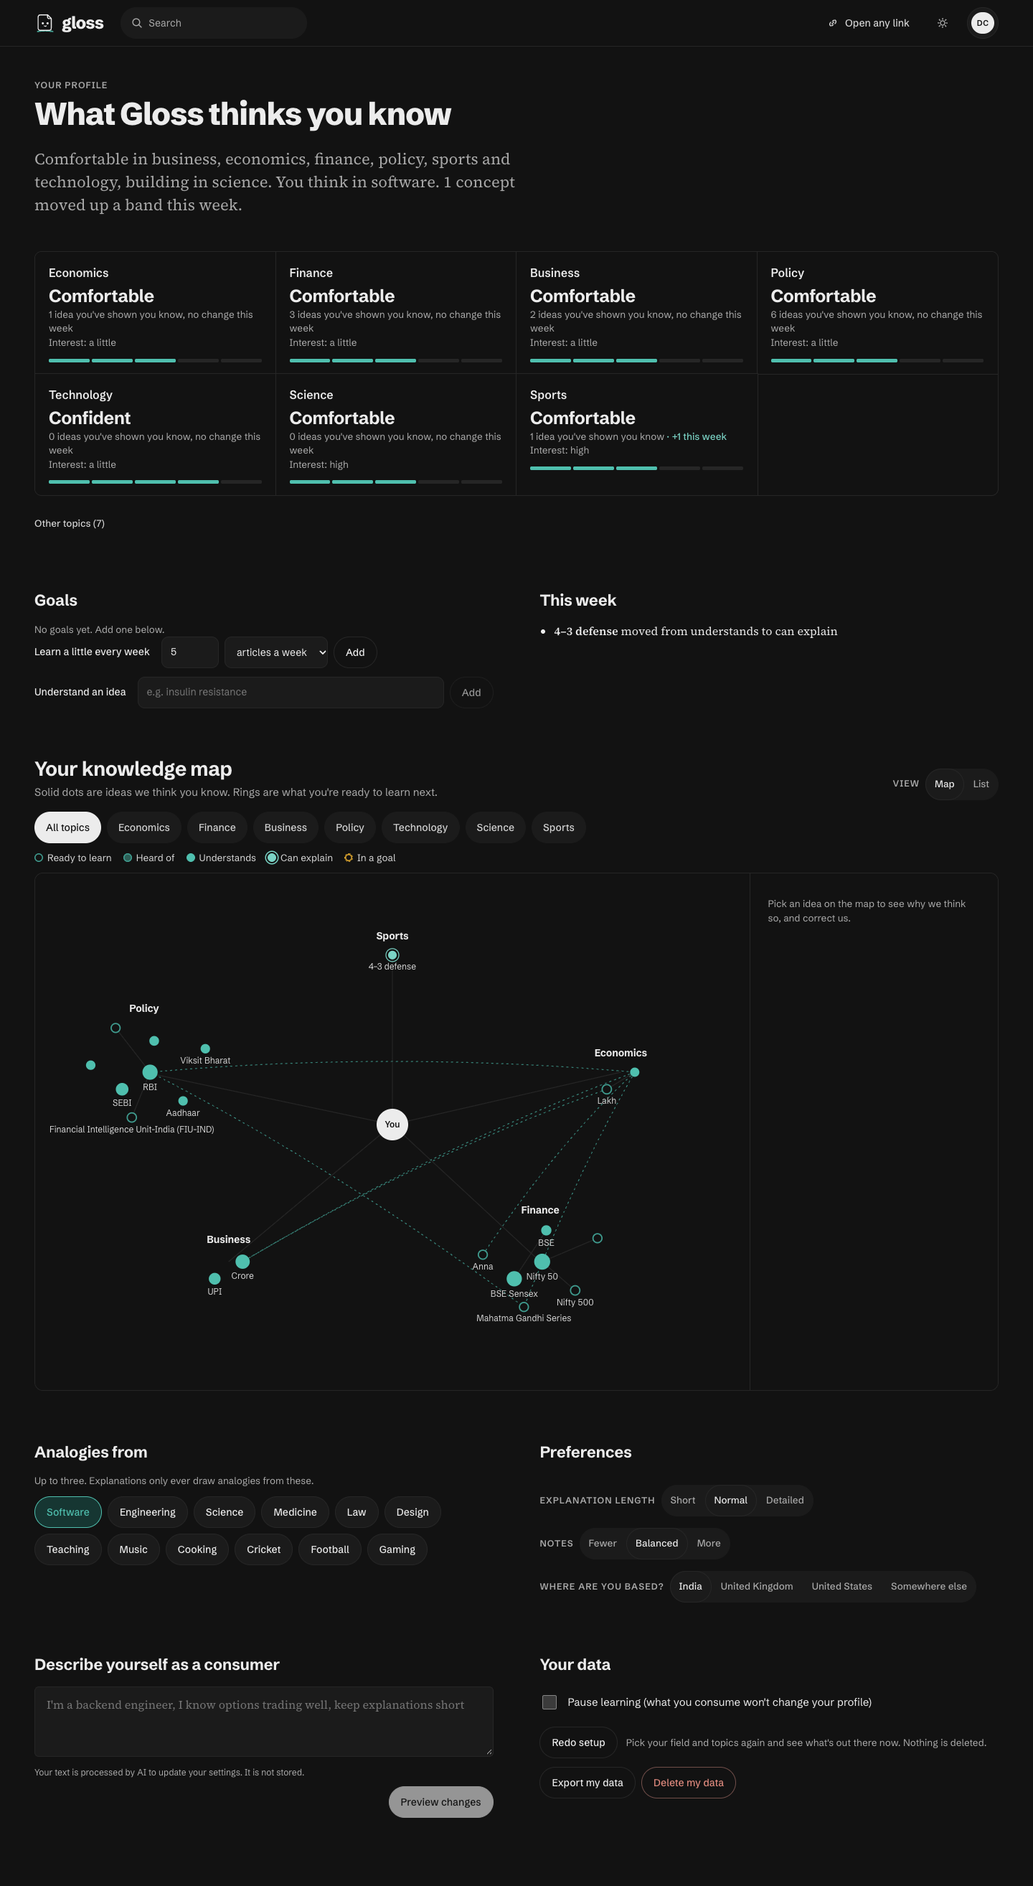
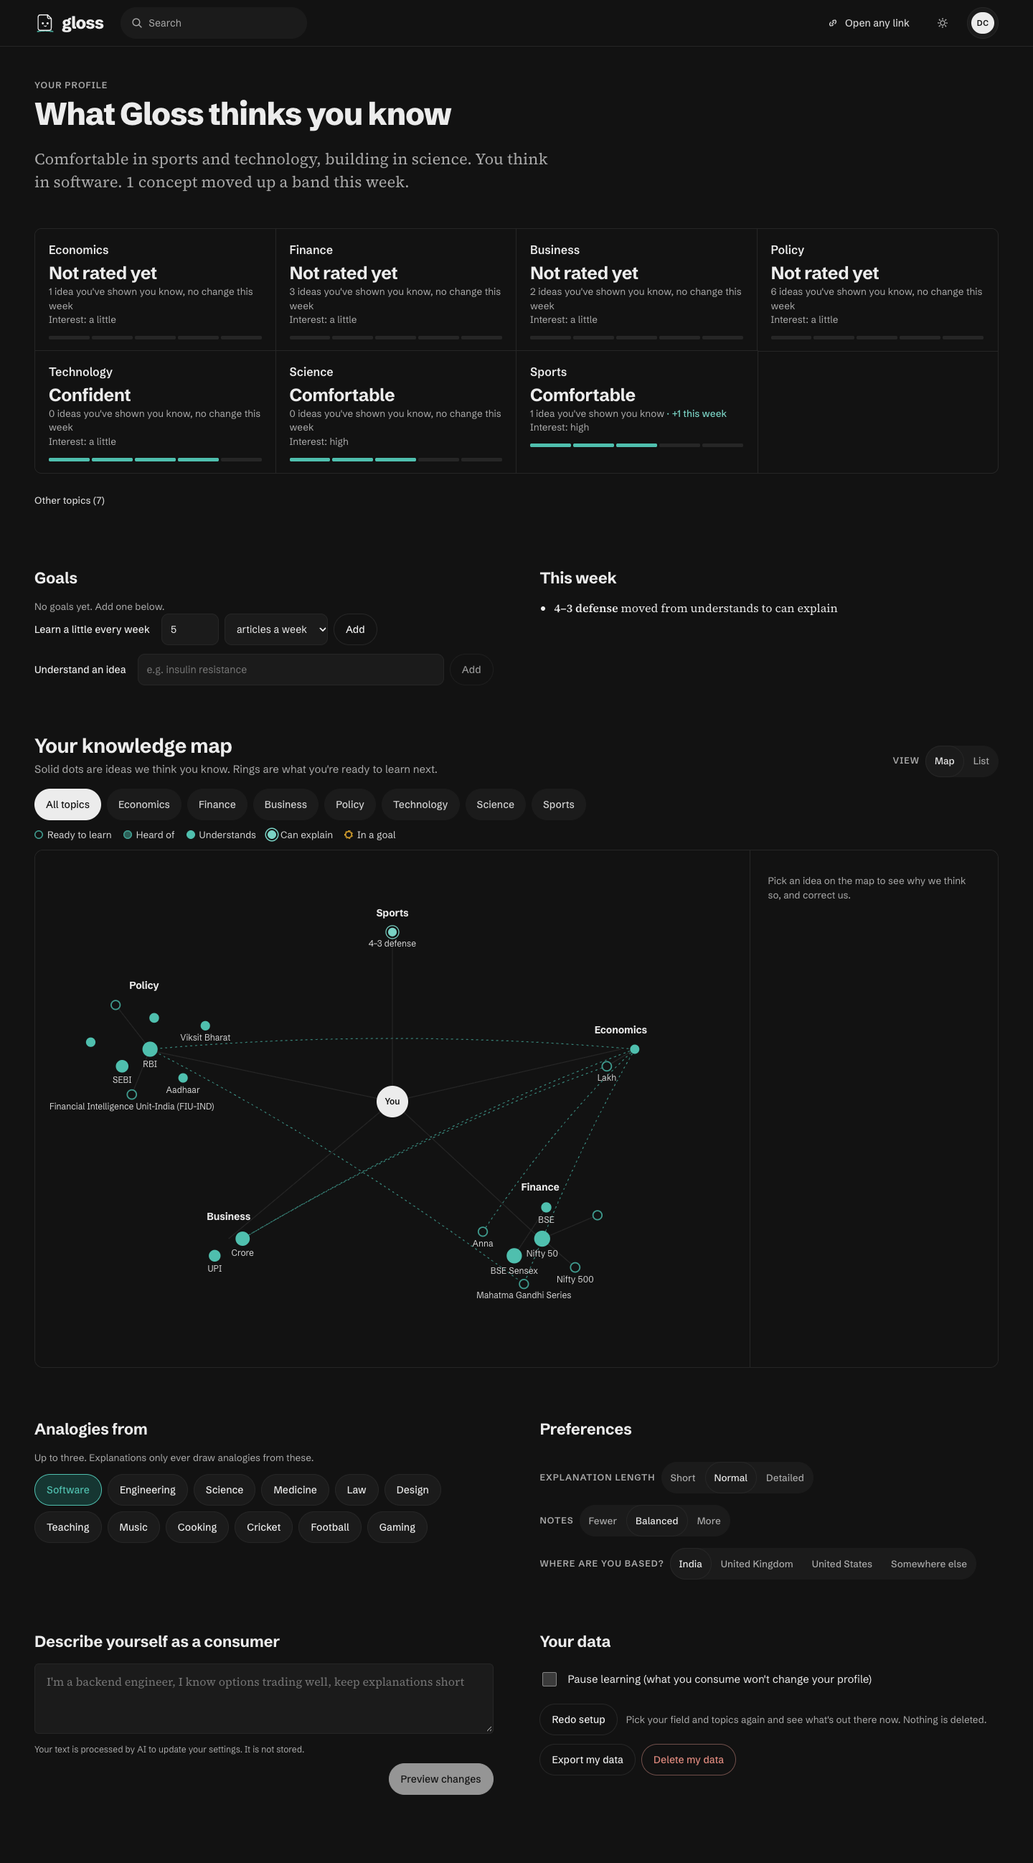
M69: A2 review fixes — level-setting evidence rates a topic, known topics stay in the grid; G pending test; harness rerun

diff --git a/apps/web/test/honestMap.test.tsx b/apps/web/test/honestMap.test.tsx
@@ -4,6 +4,7 @@ import { createRoot } from "react-dom/client";
 import { describe, expect, it } from "vitest";
 
 import { Legend, inspectorNote } from "../src/components/profile/KnowledgeMap";
+import { splitDomains } from "../src/pages/ProfilePage";
 
 (globalThis as { IS_REACT_ACT_ENVIRONMENT?: boolean }).IS_REACT_ACT_ENVIRONMENT = true;
 
@@ -31,5 +32,16 @@ describe("honest map", () => {
     for (const n of ["unaware", "understands"] as const) {
       expect(inspectorNote({ ready: false, band: n, domain: "finance" })).not.toMatch(/estimate from your level/);
     }
+  });
+});
+
+describe("profile topics (decision 69 A2)", () => {
+  const row = (domain: string, rated: boolean, known: number, interest = 0.3) =>
+    ({ domain, theta: 0, interest, rated, concepts: 50, known }) as Parameters<typeof splitDomains>[0][number];
+
+  it("keeps a topic with recorded ideas in the main grid even when it has no level yet", () => {
+    const [main, other] = splitDomains([row("technology", true, 0), row("policy", false, 6), row("law", false, 0)]);
+    expect(main.map((d) => d.domain)).toEqual(["technology", "policy"]);
+    expect(other.map((d) => d.domain)).toEqual(["law"]);
   });
 });

diff --git a/apps/web/src/pages/ProfilePage.tsx b/apps/web/src/pages/ProfilePage.tsx
@@ -119,10 +119,11 @@ export default function ProfilePage({ url }: { url: URL }) {
 
 type DomainRow = Profile["domains"][number];
 
-/** Rated domains and the reader's chosen interests come first; with neither, the four core
- *  domains. The rest of the 14 sit behind "Other domains" so the page stays short. */
-function splitDomains(rows: DomainRow[]): [DomainRow[], DomainRow[]] {
-  const mine = rows.filter((d) => d.rated || d.interest >= 0.5);
+/** Rated domains, domains with ideas the reader has shown they know (decision 69 A2: shown as
+ *  "Not rated yet" with their count) and the reader's chosen interests come first; with none, the
+ *  four core domains. The rest of the 14 sit behind "Other domains" so the page stays short. */
+export function splitDomains(rows: DomainRow[]): [DomainRow[], DomainRow[]] {
+  const mine = rows.filter((d) => d.rated || (d.known ?? 0) > 0 || d.interest >= 0.5);
   const primary = mine.length ? mine : rows.filter((d) => BUSINESS_DOMAINS.includes(d.domain));
   return [primary, rows.filter((d) => !primary.includes(d))];
 }

diff --git a/apps/web/src/lib/profileApi.ts b/apps/web/src/lib/profileApi.ts
@@ -39,7 +39,8 @@ export interface Onboarding {
 
 export interface Profile {
   summary: { text: string; top_domain: string | null; moved_up_this_week: number; learning_paused: boolean };
-  /** `rated`: the reader rated, reads in, or has concepts in this domain. */
+  /** `rated`: the domain's level was set or moved (a comfort answer, the field, reading, answers,
+   * an edit; decision 69 A2). Recorded ideas alone (`known`) don't rate it. */
   domains: { domain: Domain; theta: number; interest: number; rated: boolean; concepts: number; known?: number }[];
   thinks_in: Frame[];
   week: {

diff --git a/tools/shots/d69.py b/tools/shots/d69.py
@@ -76,6 +76,11 @@ async def main() -> None:
             "solid_without_evidence": [n["label"] for n in solid if not n["recent"]],
             "evidence_types": sorted({e["type"] for n in solid for e in n["recent"]}),
         }
+        prof = (await p.api("", "GET", "/v1/me/profile"))["body"]
+        out["summary"] = prof["summary"]["text"]  # A2: only topics whose level was set or moved
+        out["rated"] = sorted(d["domain"] for d in prof["domains"] if d["rated"])
+        out["known_unrated"] = sorted(d["domain"] for d in prof["domains"]
+                                      if not d["rated"] and d.get("known", 0) > 0)  # fmt: skip
         out["profile"] = await audit_all(p, "profile", "/profile", ".kmap")
         await p.viewport(1440)
         await p.goto(W + "/profile", wait=2)
@@ -111,8 +116,20 @@ async def main() -> None:
 
         # F: wording in the signed-in library
         out["library"] = await audit_all(p, "library", "/", ".topbar")
-    finally:
         out["delete"] = (await p.api("", "DELETE", "/v1/me"))["status"]
+
+        # A2 on a demo persona: its summary still names every topic its level is set in
+        await p.viewport(1440)
+        await p.reset_auth(W)
+        await p.goto(W + "/", wait=3)
+        await p.wait_for(".lp-nav__cta", 30)
+        await p.eval("document.querySelector('.lp-nav__cta').click(); 1")
+        await asyncio.sleep(6)
+        demo = (await p.api("", "GET", "/v1/me/profile?persona=newcomer"))["body"]
+        out["newcomer_summary"] = demo["summary"]["text"]
+        out["newcomer_rated"] = sorted(d["domain"] for d in demo["domains"] if d["rated"])
+    finally:
+        out["cleanup"] = (await p.api("", "DELETE", "/v1/me"))["status"]
         print(json.dumps(out, indent=1))
         await ws.close()
         cdp.stop()

diff --git a/apps/api/app/me/router.py b/apps/api/app/me/router.py
@@ -328,6 +328,11 @@ async def correct_concept(
 # ---------------------------------------------------------------- profile and settings
 
 
+def _domain_of(graph: ConceptGraph, cid: str) -> str | None:
+    c = graph.get(cid)
+    return c.domain if c is not None else None
+
+
 @router.get("/me/profile")
 async def get_profile(ctx: Annotated[ReaderContext, Depends(reader_context)]) -> dict[str, Any]:
     """Deterministic (DESIGN §15.1): no LLM call anywhere on this path."""
@@ -338,10 +343,12 @@ async def get_profile(ctx: Annotated[ReaderContext, Depends(reader_context)]) ->
     knows = dict(ctx.state.edges)
     weekly = await _repo().get_weekly(ctx.uid)
     theta = {d: float(ctx.theta.get(d, 0.0)) for d in DOMAINS}
-    # A domain whose level was set or moved (a comfort answer, the field, reading, answers): the
-    # summary and the level words speak only about those. A neutral 0 in an untouched domain isn't
-    # "comfortable", even when a few ideas there are recorded (home terms, decision 69 A2).
-    rated = {d for d in DOMAINS if d in user.onboarding.get("comfort", {}) or abs(theta[d]) > 1e-9}
+    # A domain whose level was set or moved (`profile.rated_domains`): the summary and the level
+    # words speak only about those. A neutral 0 with only recorded ideas (home terms) isn't
+    # "comfortable" (decision 69 A2).
+    rated = profile.rated_domains(
+        theta, user.onboarding.get("comfort", {}), knows, lambda cid: _domain_of(graph, cid)
+    ) & set(DOMAINS)
     moves = [m for m in profile.moved_up_this_week(knows, now) if graph.get(m.concept_id)]
     in_graph = Counter(c.domain for c in graph.concepts)  # the map offers domains with concepts
     # Ideas the reader has shown they know (an edge at "understands" or above), per domain.

diff --git a/apps/api/tests/test_formats.py b/apps/api/tests/test_formats.py
@@ -116,3 +116,31 @@ def test_a_short_chosen_format_is_made_up_by_the_other_chosen_one():
         c.result.format for c in fr.onboarding_mix(groups, NOW, 9, formats=["article", "podcast"])
     ]
     assert got.count("podcast") == 1 and got.count("video") == 1 and got.count("article") == 7
+
+
+def test_screen_2_targets():
+    assert fr.onboarding_targets(["video", "podcast"], 9) == (
+        ["video", "podcast"],
+        {"video": 4, "podcast": 4, "article": 1},
+    )
+    assert fr.onboarding_targets([], 9) == (["article"], {"article": 7, "video": 1, "podcast": 1})
+    assert fr.onboarding_targets(["article", "video", "podcast"], 3)[1] == {
+        "article": 1,
+        "video": 1,
+        "podcast": 1,
+    }
+
+
+def test_screen_2_pending_holds_the_short_chosen_format_then_fills_it():
+    """Read + Listen, podcasts slow: the first poll shows the 4 articles and holds 4 podcast slots
+    and the video's; the next poll keeps those 4 first and adds 4 podcasts and 1 video."""
+    articles = [[cand(f"{t}-a{i}", t) for i in range(4)] for t in ("sports", "law")]
+    first = fr.onboarding_mix(articles, NOW, 9, formats=["article", "podcast"], pending=True)
+    assert [c.result.format for c in first] == ["article"] * 4
+    served = [c.result.url for c in first]
+    later = [g + [cand(f"{g[0].topic}-p{i}", g[0].topic, "podcast") for i in range(3)]
+             + [cand(f"{g[0].topic}-v", g[0].topic, "video")] for g in articles]  # fmt: skip
+    again = fr.onboarding_mix(later, NOW, 9, formats=["article", "podcast"], served=served)
+    fmts = [c.result.format for c in again]
+    assert [c.result.url for c in again][:4] == served
+    assert fmts[4:].count("podcast") == 4 and fmts[4:].count("video") == 1 and len(again) == 9

diff --git a/apps/api/app/reader/profile.py b/apps/api/app/reader/profile.py
@@ -2,7 +2,7 @@
 and the annotation trend. Pure, and never an LLM call: same inputs give the same text.
 """
 
-from collections.abc import Iterable, Mapping
+from collections.abc import Callable, Iterable, Mapping
 from dataclasses import dataclass
 from datetime import datetime, timedelta
 
@@ -13,6 +13,29 @@ LEVELS = ("advanced", "comfortable", "building", "new to")
 PHRASE = {"advanced": "advanced in", "comfortable": "comfortable in", "building": "building in",
           "new to": "new to"}  # fmt: skip
 WEEK = timedelta(days=7)
+# Evidence that sets or moves a topic's level (decision 69 A2): a profile edit's level, a Quick
+# check answer, and the reading events that take an Elo step. Home terms, liked-article mentions,
+# persona seeds, corrections and named-concept edits record ideas only, never a level.
+LEVEL_EVIDENCE = frozenset(
+    {"profile_edit_domain", "calibration_answer", "knew_this", "explain_opened"}
+)
+
+
+def rated_domains(
+    theta: Mapping[str, float],
+    comfort: Iterable[str],
+    edges: Mapping[str, Edge],
+    domain_of: Callable[[str], str | None],
+) -> set[str]:
+    """Topics whose level was set or moved: a comfort answer, θ off its neutral 0, or level-setting
+    evidence (which can leave θ at exactly 0: an edit from 0.5 to "some", a "heard of" answer on a
+    term as hard as θ). A neutral 0 with only recorded ideas isn't "comfortable" (decision 69
+    A2)."""
+    rated = {d for d, t in theta.items() if abs(t) > 1e-9} | set(comfort)
+    for cid, edge in edges.items():
+        if any(e.type in LEVEL_EVIDENCE for e in edge.evidence) and (d := domain_of(cid)):
+            rated.add(d)
+    return rated
 
 
 def theta_word(theta: float) -> str:

diff --git a/apps/api/tests/test_reader_logic.py b/apps/api/tests/test_reader_logic.py
@@ -322,3 +322,28 @@ def test_article_helpful_is_recorded_without_evidence():
     )
     assert out.applied == ("h1",) and out.ignored == ("h2",)
     assert out.edges == {} and out.theta == {}  # no knows or θ change
+
+
+# Decision 69 A2: a topic is rated only when its level was set or moved.
+
+
+def _edge_with(kind: str) -> Edge:
+    now = datetime(2026, 10, 17, tzinfo=UTC)
+    return Edge(alpha=1.0, beta=1.0, last_seen=now, band="heard of",
+                evidence=(model.Evidence(kind, 1.0, now),))  # fmt: skip
+
+
+@pytest.mark.parametrize(
+    ("kind", "rated"),
+    [("profile_edit_domain", True), ("calibration_answer", True), ("knew_this", True),
+     ("explain_opened", True), ("home_country", False), ("liked_article_mention", False),
+     ("seed", False), ("correction", False), ("profile_edit_concept", False)],
+)  # fmt: skip
+def test_a_level_needs_level_setting_evidence_or_a_moved_theta(kind, rated):
+    got = profile.rated_domains({"finance": 0.0}, [], {"c1": _edge_with(kind)}, lambda _: "finance")
+    assert ("finance" in got) is rated
+
+
+def test_a_moved_theta_or_a_comfort_answer_rates_a_topic_without_edges():
+    got = profile.rated_domains({"finance": 0.0, "law": 0.4, "policy": 0.0}, ["policy"], {}, str)
+    assert got == {"law", "policy"}

diff --git a/apps/api/tests/test_onboarding_knowledge.py b/apps/api/tests/test_onboarding_knowledge.py
@@ -200,3 +200,23 @@ def test_home_terms_alone_give_a_topic_no_level(env, docs):
     assert not any(rated[d] for d in home)
     text = profile["summary"]["text"]
     assert all(d not in text for d in home), text
+
+
+def test_a_quick_check_answer_rates_its_topic_even_if_theta_stays_at_zero(env, docs):
+    g = consented(TestClient(app, headers=auth("g1")))
+    g.post("/v1/onboarding", json=answers())
+    item = g.get("/v1/calibration/set").json()["items"][0]
+    answer = {"concept_id": item["concept_id"], "answer": "heard"}
+    assert g.post("/v1/calibration/answer", json=answer).status_code == 200
+    rated = {d["domain"]: d["rated"] for d in g.get("/v1/me/profile").json()["domains"]}
+    assert rated[item["domain"]] is True
+
+
+def test_demo_personas_are_rated_exactly_where_their_level_is_set(env):
+    from app.reader.personas import PERSONAS
+
+    anon = TestClient(app, headers=auth("demo-a2", anonymous=True))
+    for key, spec in PERSONAS.items():
+        body = anon.get(f"/v1/me/profile?persona={key}").json()
+        rated = {d["domain"] for d in body["domains"] if d["rated"]}
+        assert rated == {d for d, t in spec.theta.items() if abs(t) > 1e-9}, key

diff --git a/apps/api/tests/test_onboarding.py b/apps/api/tests/test_onboarding.py
@@ -283,7 +283,7 @@ def test_map_nodes_carry_their_last_evidence_items(env):
     assert len(recent) <= 3
 
 
-def test_the_summary_names_only_domains_the_reader_rated_or_reads_in(env):
+def test_the_summary_names_only_domains_whose_level_was_set(env):
     g = consented(google())
     g.post(
         "/v1/onboarding", json={**ANSWERS, "comfort": {"finance": "new"}, "liked_content_ids": []}

diff --git a/docs/STATUS.md b/docs/STATUS.md
@@ -1410,6 +1410,7 @@ Plans `docs/plans/readiness-content.md` (plan-reviewer REVISE 11 → APPROVE) an
 | milestone-reviewer round 1 (PR 1) | **FIX**: the default run's 3 fallbacks unrecorded; `link_confirm`'s other callers not named or measured; deviations incomplete; §7 costs; the Last updated line — all applied above; analysis's warm wait moved inside the lease (its non-blocking suggestion) |
 | PR 1 merged | #61, CI green, squash-merged (8984bce). Not deployed: Sourabh, "no lets add other fixes and deploy together" — one deploy with PR 2 |
 | PR 2 tests (`d69-map-story`) | API **1321** passed (new: the map overview's evidence-only rules, rings across domains, no slot for an evidence-free chosen domain, `/me/bands` still prior-based, per-topic view `unaware` for no edge; `basis=story` B1 3 and B2 6 (stories lead, once ever even when empty, pages a reader brought in never searched, story cap, own URL, relevance filter) + 1 concurrency test; A2 home terms give no level; G equal shares, turns, a short format made up). Web **290** (new `honestMap.test.tsx`, `storyBasis.test.ts`; the wording guard extended; old-wording asserts updated), annotator 71, typecheck and ruff clean |
-| PR 2 harness (2026-10-17, emulators, real search) | `tools/shots/d69.py` (fresh account: Software + India + Sports, two Quick check answers): overview **13 solid, every one with evidence** (`calibration_answer`, `home_country`), 7 rings, domains sports / economics / finance / business / policy (science chosen but no evidence: no slot); topic view legend starts "Nothing recorded yet"; a library article's end list: **"More on this story" first**, then 5 "a key idea here", **0 "new to you"**; landing (signed out, "Consume anything. Understand all of it.", "View as:"), profile and library axe 0, no horizontal scroll at 1440/390 light/dark (profile small: the existing pause checkbox). `tools/shots/onboarding.py` with the new wording ("Start exploring"): screens 1–2 axe 0 at all four, keyboard as before. `tools/shots/d69_mix.py` (Read + Listen, three topics): **article, podcast × 4 in turns, then 1 video** (4 / 4 / 1), topics interleaved. Evidence `docs/evidence/d69/`. The harness also found **A2** (profile said "Comfortable in business, economics, finance…" for a fresh account from home terms alone) → fixed |
+| PR 2 harness (2026-10-17, emulators, real search) | `tools/shots/d69.py` (fresh account: Software + India + Sports, two Quick check answers): overview **13 solid, every one with evidence** (`calibration_answer`, `home_country`), 7 rings, domains sports / economics / finance / business / policy (science chosen but no evidence: no slot); topic view legend starts "Nothing recorded yet"; a library article's end list: **"More on this story" first**, then 5 "a key idea here", **0 "new to you"**; landing (signed out, "Consume anything. Understand all of it.", "View as:"), profile and library axe 0, no horizontal scroll at 1440/390 light/dark (profile small: the existing pause checkbox). `tools/shots/onboarding.py` with the new wording ("Start exploring"): screens 1–2 axe 0 at all four, keyboard as before. `tools/shots/d69_mix.py` (Read + Listen, three topics): **article, podcast × 4 in turns, then 1 video** (4 / 4 / 1), topics interleaved. Evidence `docs/evidence/d69/`. The harness also found **A2** (profile said "Comfortable in business, economics, finance…" for a fresh account from home terms alone) → fixed; rerun after the A2 review fixes: summary "Comfortable in sports and technology, building in science. You think in software. 1 concept moved up a band this week."; rated science / sports / technology; business, economics, finance, policy unrated but in the main grid with their known counts; the newcomer persona's summary unchanged ("Building in business, finance and policy, new to economics. You think in software.", rated = its four set domains); landing, profile, library axe 0 at all four |
+| Plan-reviewer on A2 + G | **REVISE 6**: a level set by an edit or a "heard of" answer can leave θ at exactly 0 → `profile.rated_domains` also counts level-setting evidence; tests per evidence kind, a Quick check answer, every persona; the web keeps topics with known ideas in the main grid; stale DESIGN / plan / comment text; G's pending note and test; harness rerun — all applied |
 | Deviations (PR 2) | (1) A2 and G added mid-PR (plan sections; plan-reviewer on both). (2) "read up on" kept as an idiom (in the landing screenshot and README image); "Before you read" kept (an article format word). (3) B1's "same ideas for every persona" test relaxed to overlap: story items take slots, and which key-idea formats fill the rest follows each persona's format preference |
 

diff --git a/docs/plans/honest-map-speed.md b/docs/plans/honest-map-speed.md
@@ -129,7 +129,8 @@ are in the video line).
   recorded yet: read about it, or tell us below." only when `!ready && band === "unaware" &&
   recent.length === 0` (an edge with no evidence after a profile edit keeps today's text); "I know
   this / I don't" stay.
-- Unchanged: scoring and notes still use the prior (DESIGN §5); the profile summary and list;
+- Unchanged: scoring and notes still use the prior (DESIGN §5); the list view (edges only); the
+  profile summary and levels change in A2;
   demo personas (edges from their templates).
 - Tests (API): fresh reader (θ only, no edges) → no nodes; home-term edges → solid in their domains,
   nothing else; a ring only when its prerequisites have evidence, including a prerequisite in
@@ -146,10 +147,15 @@ The d69 harness (fresh account, Software + India + Sports) showed the profile sa
 business, economics, finance, policy, sports and technology": the 12 India home terms put edges in
 four domains, and `GET /v1/me/profile` counted a domain with any edge as `rated`, so its untouched
 θ 0 read "comfortable" (the summary and the level cards) — the same guess-as-fact as the map. Now
-`rated` = a comfort answer or |θ| > 0 (the field, reading's Elo, Quick check answers, profile
-edits); recorded ideas alone don't rate a domain. The web already shows "Not rated yet" and keeps
-the "N ideas you've shown you know" count. Test: home terms alone → those domains unrated and absent
-from the summary; the field's domain rated. Demo personas are unaffected (their θ is set).
+`rated` = `profile.rated_domains`: a comfort answer, |θ| > 0 (the field, reading's Elo, answers,
+edits), or level-setting evidence in the domain (`profile_edit_domain`, `calibration_answer`,
+`knew_this`, `explain_opened` — an edit from 0.5 to "some" or a "heard of" answer can leave θ at
+exactly 0); home terms, liked mentions, seeds, corrections and named-concept edits alone don't rate
+a domain. The web shows "Not rated yet" with the "N ideas you've shown you know" count, and keeps a
+topic with known ideas in the main grid and the map's topic buttons (`splitDomains`: rated, known >
+0 or chosen). Tests: the rule per evidence kind; home terms alone → unrated, absent from the
+summary; a Quick check answer rates its topic; each demo persona rated exactly where its θ is set;
+the web grouping. Plan-reviewer on A2: REVISE 6 (incl. G) → applied.
 
 ## B. End-of-article Up next follows the article (PR 2, API + web)
 
@@ -192,7 +198,10 @@ podcasts, 1 video. Now `onboarding_targets`: every format not chosen gets 1 card
 Listen of 9 → 4 articles, 4 podcasts, 1 video; one chosen → 7 + 1 + 1; all three → 3 / 3 / 3. A
 chosen format short of results is made up by the other chosen ones first. New cards take turns by
 chosen format (topics interleaved within each), the other formats after; served cards keep their
-slots and pending searches still hold slots for a short format (both as before). Tests: the shares
+slots and pending searches still hold slots for a short format (as before, but a short chosen
+format now holds up to its larger share: Read + Listen with all podcasts slow shows 4 articles on
+the first poll, and the next poll appends 4 podcasts and 1 video after them, so "take turns" applies
+within one poll). Tests: the shares
 above, the turns, topics interleaved within a format, a short chosen format made up; decision 68's
 served/pending/default tests unchanged and passing. Harness (`tools/shots/d69_mix.py`, Read +
 Listen, three topics): 4 / 4 / 1 in turns. Pure function, no new searches or cost.
@@ -279,5 +288,5 @@ Changes:
 
 ## Docs and records
 STATUS §10 row 69 (quotes above; the freeze lifted), §9 rows (schedule above), §37 acceptance;
-DESIGN §15.1 (map), §8 (`basis`), §16.3 (story search rule), the effort table; AUTOPILOT_LOG.
+DESIGN §15.1 (map; levels, A2), §8 (`basis`), §16.3 (story search rule), the effort table; AUTOPILOT_LOG.
 Commits `M69: …` per PR.
